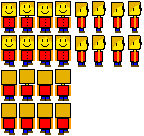
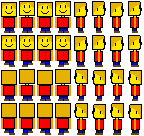
Steve can move

diff --git a/src/entities/player.js b/src/entities/player.js
@@ -1,6 +1,7 @@
-import { Steve } from '../globals/Images.js'
+import { Player1, Player2 } from '../globals/EntityTypes.js'
 import Animations from '../globals/Animations.js'
 import Animation from '../components/Animation.js'
+import { Player1Keys, Player2Keys } from '../globals/Keys.js'
 
 export default class Player {
   constructor (config) {
@@ -9,10 +10,16 @@ export default class Player {
     this.animations = {}
     buildAnimations(this)
     this.animation = this.animations.SteveIdleDown
-    this.flip = false
+    this.speed = 2
+    if (this.type === Player1) {
+      this.keys = Player1Keys
+    } else if (this.type === Player2) {
+      this.keys = Player2Keys
+    }
   }
 
   update (deltaTime) {
+    handleInput(this)
     this.animation.update(deltaTime)
   }
 
@@ -29,5 +36,41 @@ function buildAnimations (player) {
     animationConfig.imageSrc = animation.spritesheet
 
     player.animations[animation.name] = new Animation(animationConfig)
+  }
+}
+
+function handleInput (player) {
+  const downKeys = player.game.inputManager.getDownKeys(player.type)
+
+  if (downKeys.includes(player.keys.Up)) {
+    player.y -= player.speed
+    if (player.animation !== player.animations.SteveWalkUp) {
+      player.animation = player.animations.SteveWalkUp
+    }
+  } else if (downKeys.includes(player.keys.Down)) {
+    player.y += player.speed
+    if (player.animation !== player.animations.SteveWalkDown) {
+      player.animation = player.animations.SteveWalkDown
+    }
+  } else if (downKeys.includes(player.keys.Left)) {
+    player.x -= player.speed
+    if (player.animation !== player.animations.SteveWalkLeft) {
+      player.animation = player.animations.SteveWalkLeft
+    }
+  }  else if (downKeys.includes(player.keys.Right)) {
+    player.x += player.speed
+    if (player.animation !== player.animations.SteveWalkRight) {
+      player.animation = player.animations.SteveWalkRight
+    }
+  } else {
+    if (player.animation === player.animations.SteveWalkUp) {
+      player.animation = player.animations.SteveIdleUp
+    } else if (player.animation === player.animations.SteveWalkDown) {
+      player.animation = player.animations.SteveIdleDown
+    } else if (player.animation === player.animations.SteveWalkLeft) {
+      player.animation = player.animations.SteveIdleLeft
+    } else if (player.animation === player.animations.SteveWalkRight) {
+      player.animation = player.animations.SteveIdleRight
+    }
   }
 }

diff --git a/src/managers/InputManager.js b/src/managers/InputManager.js
@@ -1,3 +1,6 @@
+import Keys, { Player1Keys, Player2Keys } from '../globals/Keys.js'
+import { Player1, Player2 } from '../globals/EntityTypes.js'
+
 export default class InputManager {
   constructor (config) {
     Object.assign(this, config)
@@ -5,6 +8,8 @@ export default class InputManager {
     this.justDown = {}
     this.stillDown = {}
     this.justUp = {}
+    this.player1KeyValues = Object.values(Player1Keys)
+    this.player2KeyValues = Object.values(Player2Keys)
 
     this.mouse = {
       x: 0,
@@ -67,15 +72,33 @@ export default class InputManager {
     return this.justUp[key]
   }
 
-  getJustDownKeys () {
+  getJustDownKeys (player) {
+    if (player === Player1) {
+      return Object.keys(this.justDown).filter(key => this.justDown[key] && this.player1KeyValues.includes(key))
+    } else if (player === Player2) {
+      return Object.keys(this.justDown).filter(key => this.justDown[key] && this.player2KeyValues.includes(key))
+    }
+
     return Object.keys(this.justDown).filter(key => this.justDown[key])
   }
 
-  getDownKeys () {
+  getDownKeys (player) {
+    if (player === Player1) {
+      return Object.keys(this.stillDown).filter(key => this.stillDown[key] && this.player1KeyValues.includes(key))
+    } else if (player === Player2) {
+      return Object.keys(this.stillDown).filter(key => this.stillDown[key] && this.player2KeyValues.includes(key))
+    }
+
     return Object.keys(this.stillDown).filter(key => this.stillDown[key])
   }
 
-  getJustUpKeys () {
+  getJustUpKeys (player) {
+    if (player === Player1) {
+      return Object.keys(this.justUp).filter(key => this.justUp[key] && this.player1KeyValues.includes(key))
+    } else if (player === Player2) {
+      return Object.keys(this.justUp).filter(key => this.justUp[key] && this.player2KeyValues.includes(key))
+    }
+
     return Object.keys(this.justUp).filter(key => this.justUp[key])
   }
 

diff --git a/src/globals/Animations.js b/src/globals/Animations.js
@@ -8,8 +8,7 @@ export const SteveIdleUp = {
   frameHeight: 32,
   padding: 1,
   duration: 500,
-  loop: true,
-  flip: false
+  loop: true
 }
 
 export const SteveIdleDown = {
@@ -20,32 +19,29 @@ export const SteveIdleDown = {
   frameHeight: 32,
   padding: 1,
   duration: 500,
-  loop: true,
-  flip: false
+  loop: true
 }
 
 export const SteveIdleLeft = {
   name: 'SteveIdleLeft',
   spritesheet: Steve,
-  frames: [5, 6, 7, 8],
+  frames: [20, 21, 22, 23],
   frameWidth: 16,
   frameHeight: 32,
   padding: 1,
   duration: 500,
-  loop: true,
-  flip: true
+  loop: true
 }
 
 export const SteveIdleRight = {
   name: 'SteveIdleRight',
   spritesheet: Steve,
-  frames: [5, 6, 7, 8],
+  frames: [4, 5, 6, 7],
   frameWidth: 16,
   frameHeight: 32,
   padding: 1,
   duration: 500,
-  loop: true,
-  flip: false
+  loop: true
 }
 
 export const SteveWalkUp = {
@@ -56,8 +52,7 @@ export const SteveWalkUp = {
   frameHeight: 32,
   padding: 1,
   duration: 250,
-  loop: true,
-  flip: false
+  loop: true
 }
 
 export const SteveWalkDown = {
@@ -68,20 +63,18 @@ export const SteveWalkDown = {
   frameHeight: 32,
   padding: 1,
   duration: 250,
-  loop: true,
-  flip: false
+  loop: true
 }
 
 export const SteveWalkLeft = {
   name: 'SteveWalkLeft',
   spritesheet: Steve,
-  frames: [12, 13, 14, 15],
+  frames: [28, 29, 30, 31],
   frameWidth: 16,
   frameHeight: 32,
   padding: 1,
   duration: 250,
-  loop: true,
-  flip: true
+  loop: true
 }
 
 export const SteveWalkRight = {
@@ -92,8 +85,7 @@ export const SteveWalkRight = {
   frameHeight: 32,
   padding: 1,
   duration: 250,
-  loop: true,
-  flip: false
+  loop: true
 }
 
 const Animations = {

diff --git a/src/scenes/GameScene.js b/src/scenes/GameScene.js
@@ -1,6 +1,8 @@
 import Scene from './Scene.js'
 import Scenes from '../globals/Scenes.js'
-import Player from '../entities/player.js'
+import Player from '../entities/Player.js'
+import Keys from '../globals/Keys.js'
+import { Player1 } from '../globals/EntityTypes.js'
 
 export default class GameScene extends Scene {
   constructor (config) {
@@ -40,10 +42,8 @@ export default class GameScene extends Scene {
 function manageInput (scene) {
   const downKeys = scene.inputManager.getDownKeys()
 
-  if (downKeys.includes('Enter')) {
-    if (scene.currentSelection === 'Start') {
-      scene.game.changeScene(Scenes.Game)
-    }
+  if (downKeys.includes(Keys.ESCAPE)) {
+    // Pause the game
   }
 }
 
@@ -72,6 +72,7 @@ function insertEntity (scene, entity) {
 
 function addPlayers (scene) {
   scene.steve = new Player({
+    type: Player1,
     game: scene.game,
     imageManager: scene.imageManager,
     x: 50,

diff --git a/src/managers/ImageManager.js b/src/managers/ImageManager.js
@@ -38,15 +38,9 @@ export default class ImageManager {
     return this.images[this.srcToKeyMap[src]]
   }
 
-  draw (image, x, y, width, height, imageX = 0, imageY = 0, flip = false) {
+  draw (image, x, y, width, height, imageX = 0, imageY = 0) {
     this.game.ctx.save()
-    if (flip) {
-      this.game.ctx.translate(x + width, y)
-      this.game.ctx.scale(-1, 1)
-      this.game.ctx.drawImage(image, imageX, imageY, width, height, x, y, ImageScale * width, ImageScale * height)
-    } else {
-      this.game.ctx.drawImage(image, imageX, imageY, width, height, x, y, ImageScale * width, ImageScale * height)
-    }
+    this.game.ctx.drawImage(image, imageX, imageY, width, height, x, y, ImageScale * width, ImageScale * height)
 
     this.game.ctx.restore()
   }

diff --git a/src/components/Animation.js b/src/components/Animation.js
@@ -27,12 +27,7 @@ export default class Animation {
   draw (x, y) {
     const imageX = (this.currentFrame * this.frameWidth) % this.spritesheet.width
     const imageY = Math.floor((this.currentFrame * this.frameWidth) / this.spritesheet.width) * this.frameHeight
-    this.imageManager.draw(this.spritesheet, x, y, this.frameWidth, this.frameHeight, imageX, imageY, this.flip)
-  }
-
-  setFlip (value) {
-    // This won't work
-    this.flip = !this.flip
+    this.imageManager.draw(this.spritesheet, x, y, this.frameWidth, this.frameHeight, imageX, imageY)
   }
 
   getCurrentFrame () {

diff --git a/src/globals/Keys.js b/src/globals/Keys.js
@@ -72,6 +72,20 @@ const Keys = {
   F12: 'F12'
 }
 
+export const Player1Keys = {
+  Up: Keys.ARROW_UP,
+  Down: Keys.ARROW_DOWN,
+  Left: Keys.ARROW_LEFT,
+  Right: Keys.ARROW_RIGHT
+}
+
+export const Player2Keys = {
+  Up: Keys.W,
+  Down: Keys.S,
+  Left: Keys.A,
+  Right: Keys.D
+}
+
 export default Keys
 export const {
   A,
